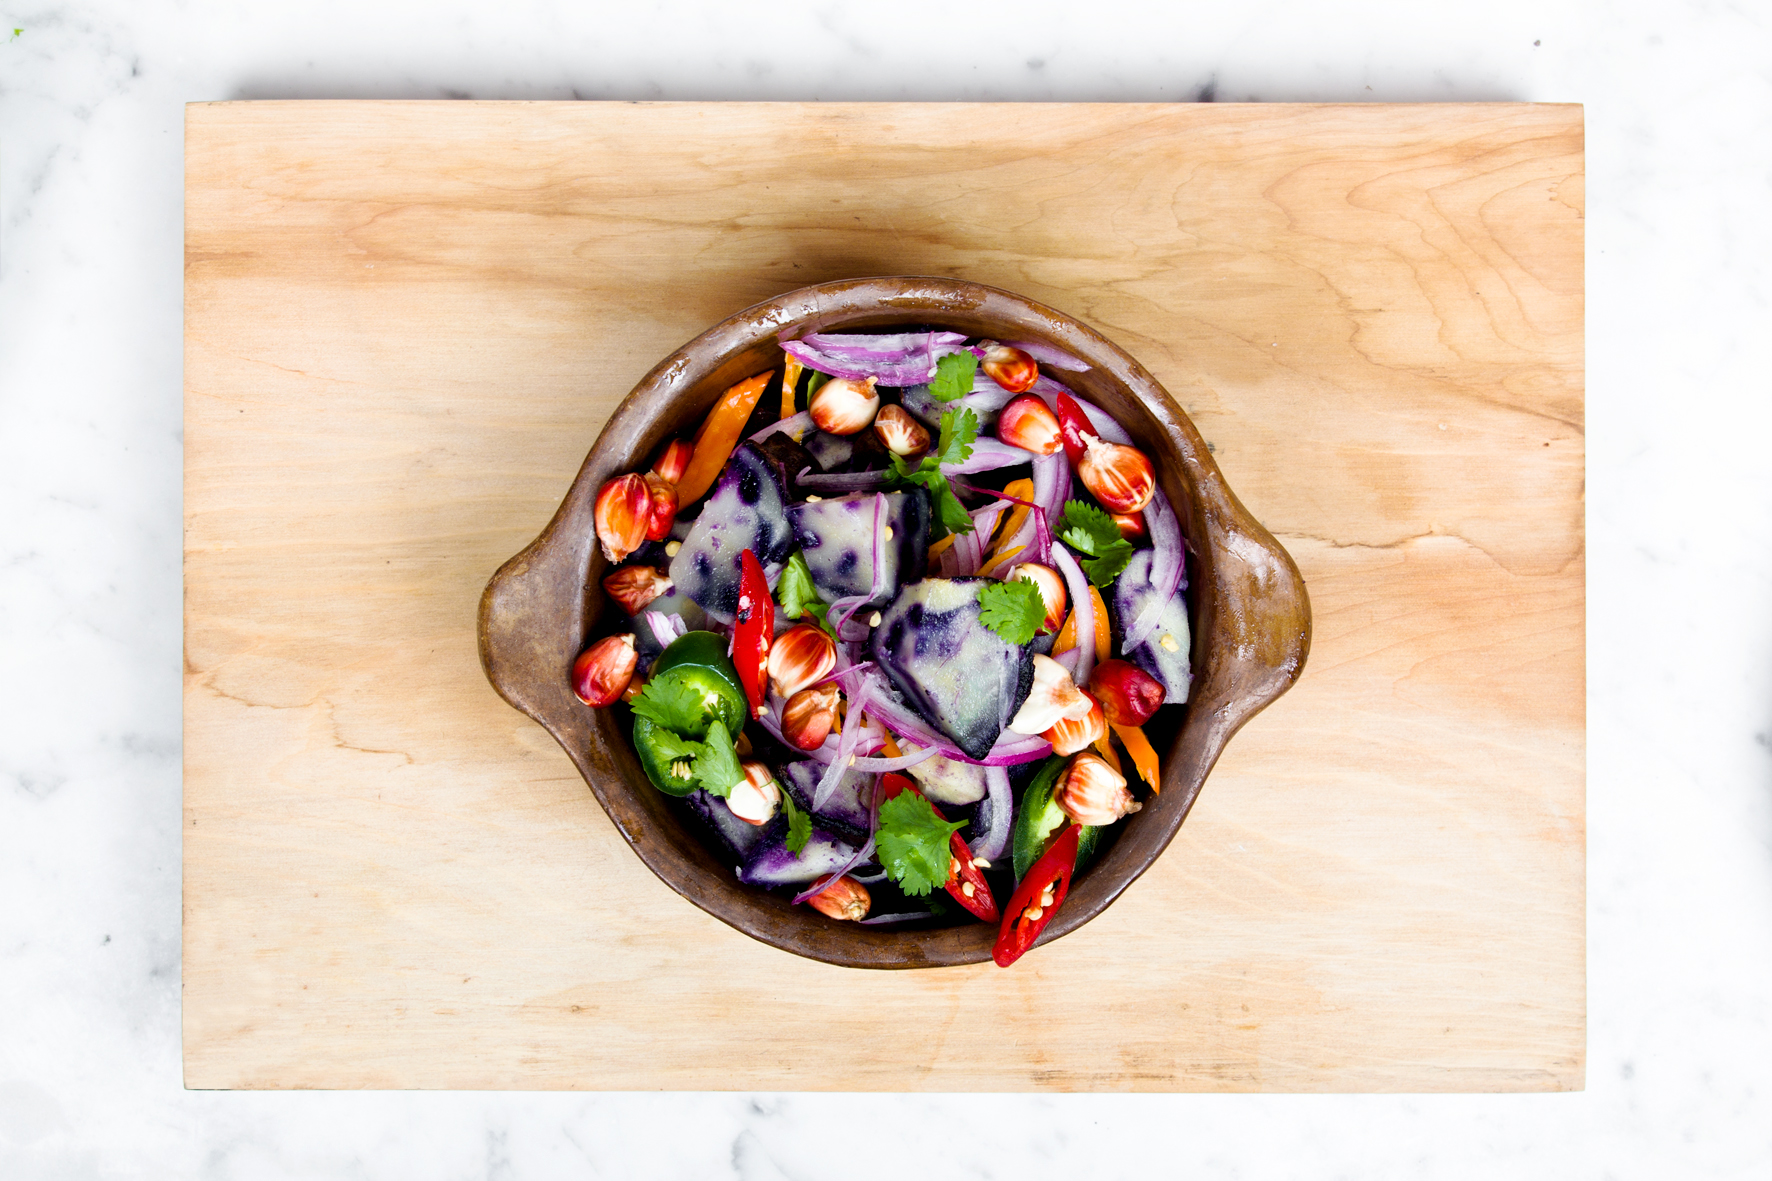
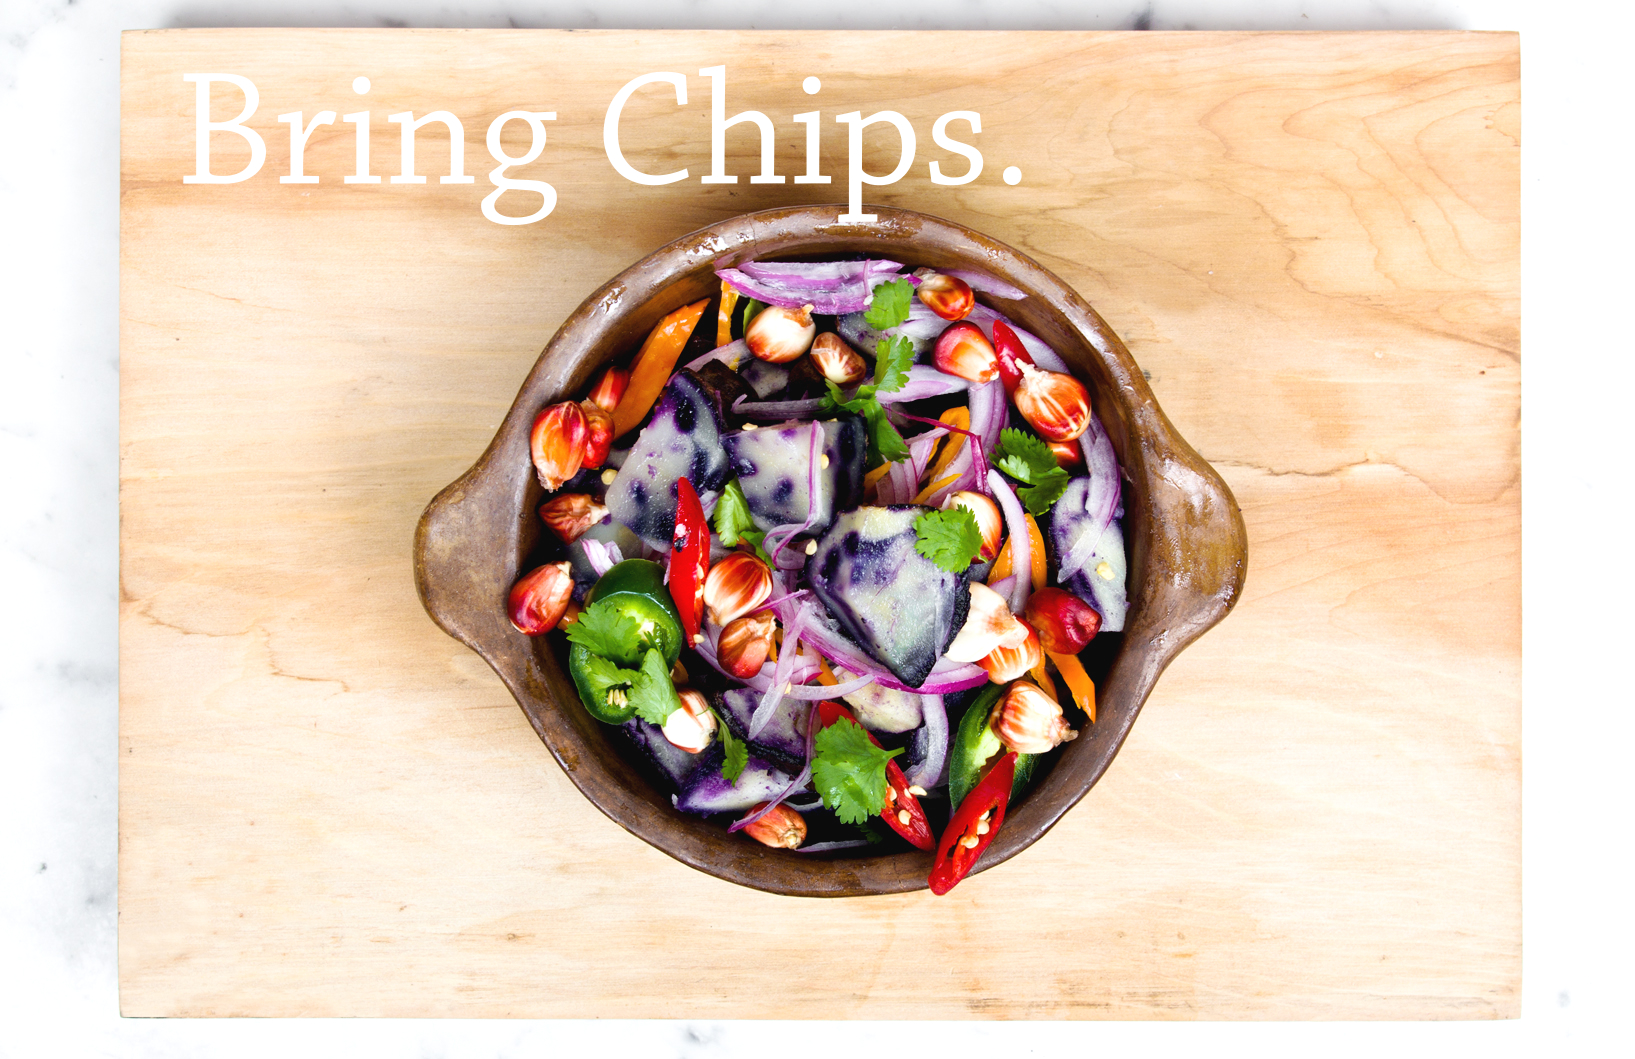
add session/new view page and edited landing page image

diff --git a/app/assets/stylesheets/application.css b/app/assets/stylesheets/application.css
@@ -17,7 +17,7 @@
 
 .main-img {
   /* Set rules to fill background */
-  min-height: 100%;
+  min-height: 90%;
   min-width: 1024px;
 
   /* Set up proportionate scaling */
@@ -26,19 +26,19 @@
 
   /* Set up positioning */
   position: absolute;
-  top: 60px;
+  top: 53px;
   left: 0;
 }
 
-.header {
+/*.header {
   position: absolute;
-  top: 8%;
+  top: 20%;
   left: 12%;
   color: white;
   max-width: 70%;
   font-size: 120px;
   font-family: 'Lora';
-}
+}*/
 
 
 .form-inline {
